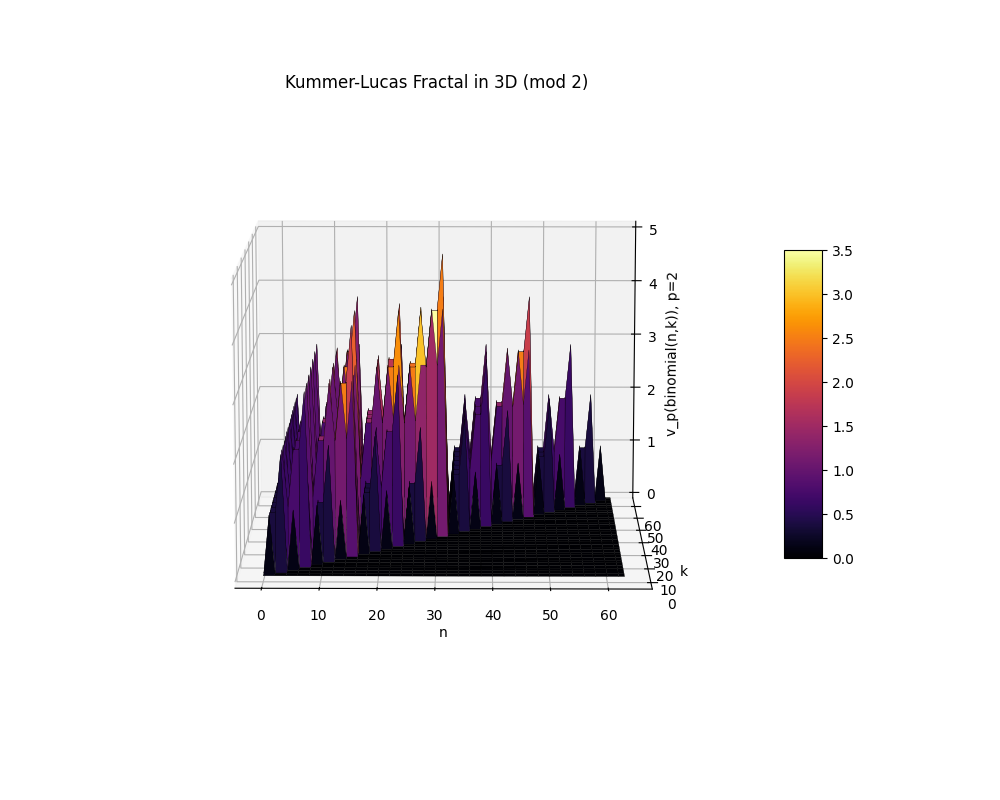
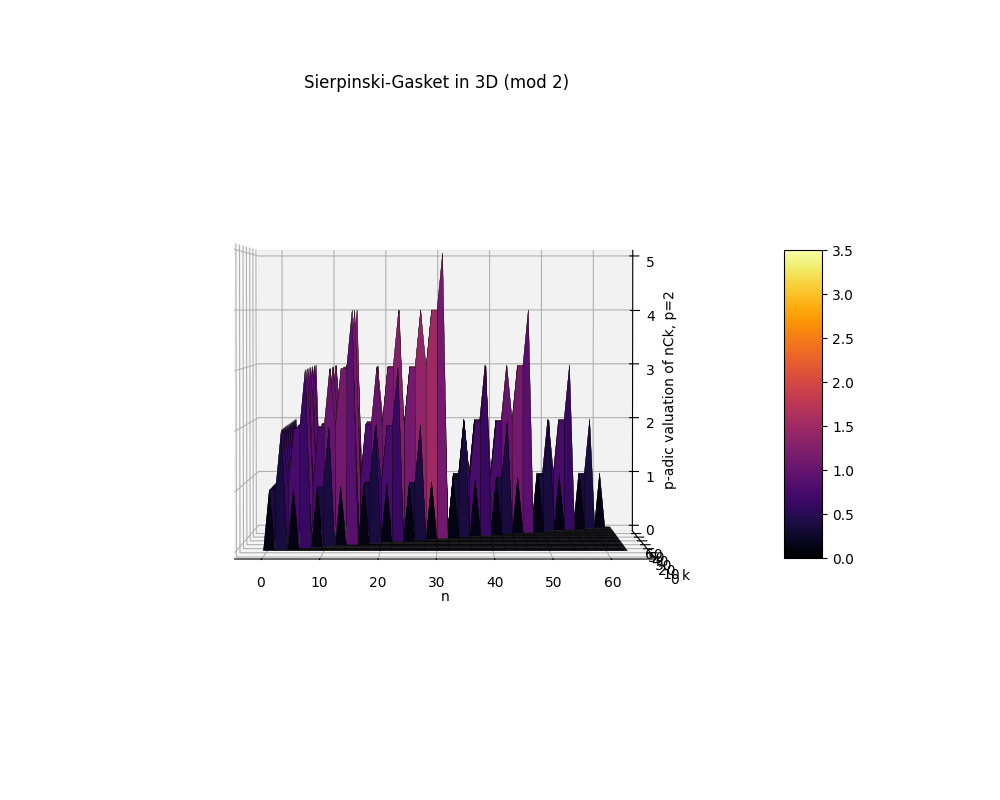
Removed redundant comments and Made minor corrections

Changed region(s): [[0.217, 0.2812, 0.682, 0.7812], [0.279, 0.0938, 0.589, 0.125]]

diff --git a/py-files/benchmark_3types.py b/py-files/benchmark_3types.py
@@ -2,9 +2,7 @@ import time
 import numpy as np
 import matplotlib.pyplot as plt
 
-# -------------------------
-# 方法1: 漸化式(mod2)
-# -------------------------
+# 漸化式による方法
 def pascal_mod2_triangle(rows):
     triangle = np.zeros((rows, rows), dtype=np.uint8)
     triangle[0, 0] = 1
@@ -15,9 +13,8 @@ def pascal_mod2_triangle(rows):
             triangle[n, k] = (triangle[n-1, k-1] ^ triangle[n-1, k])
     return triangle
 
-# -------------------------
-# 方法2: 桁ごとにLucas
-# -------------------------
+
+# 桁ごとにLucasの定理を適用する方法
 def binomial_odd_lucas(n: int, k: int) -> int:
     while n > 0 or k > 0:
         if (k & 1) > (n & 1):
@@ -33,9 +30,8 @@ def lucas_mod2_triangle(rows):
             triangle[n, k] = binomial_odd_lucas(n, k)
     return triangle
 
-# -------------------------
-# 方法3: 論理積を使う
-# -------------------------
+
+# 論理積を使う方法
 def binomial_odd_and(n: int, k: int) -> int:
     return (n & k) == k
 
@@ -46,18 +42,17 @@ def and_mod2_triangle(rows):
             triangle[n, k] = binomial_odd_and(n, k)
     return triangle
 
-# -------------------------
-# 両対数グラフ
-# -------------------------
+
+# グラフ
 def benchmark_and_plot_loglog(row_sizes):
     methods = [
         ("Pascal recurrence (mod 2)", pascal_mod2_triangle),
         ("Lucas digit comparison", lucas_mod2_triangle),
         ("Bitwise AND trick", and_mod2_triangle),
     ]
-#
+
     results = {name: [] for name, _ in methods}
-#
+
     for rows in row_sizes:
         print(f"Running benchmark for rows={rows}...")
         for name, func in methods:
@@ -65,19 +60,19 @@ def benchmark_and_plot_loglog(row_sizes):
             func(rows)
             end = time.perf_counter()
             results[name].append(end - start)
-#
+
     # プロット
     plt.figure(figsize=(9,6))
     for name in results:
         plt.plot(row_sizes, results[name], marker='o', label=name)
-#
+
     N = np.array(row_sizes, dtype=float)
     norm = results["Bitwise AND trick"][0] / (N[0]**2)
     plt.plot(N, norm * N**2, '--', label="Θ(N²) baseline")
-#
+
     norm2 = results["Lucas digit comparison"][0] / (N[0]**2 * np.log2(N[0]))
     plt.plot(N, norm2 * N**2 * np.log2(N), '--', label="Θ(N² log N) baseline")
-#
+
     plt.xscale("log")
     plt.yscale("log")
     plt.xlabel("Number of rows (N)")

diff --git a/py-files/kummer_modp.py b/py-files/kummer_modp.py
@@ -3,10 +3,6 @@ import numpy as np
 import matplotlib.pyplot as plt
 
 def binomial_p_adic_val(n, k, p):
-    """
-    Return the p-adic valuation v_p( C(n, k) ) using Kummer's theorem:
-    count the number of carries in base-p subtraction of k from n
-    """
     count = 0
     while n > 0 or k > 0:
         n_i = n % p
@@ -20,7 +16,7 @@ def binomial_p_adic_val(n, k, p):
 def generate_kummer_lucas_array(rows=128, p=3):
     arr = np.zeros((rows, rows), dtype=int)
     for n in range(rows):
-        for k in range(n + 1):  # Pascal triangle: k <= n
+        for k in range(n + 1):
             v = binomial_p_adic_val(n, k, p)
             arr[n, k] = v
     return arr

diff --git a/py-files/3d_kummer.py b/py-files/3d_kummer.py
@@ -29,8 +29,8 @@ def plot_kummer_lucas_3d(rows=64, p=2, cmap='plasma'):
 
     ax.set_xlabel("n")
     ax.set_ylabel("k")
-    ax.set_zlabel(f"v_p(binomial(n,k)), p={p}")
-    ax.set_title(f"Kummer-Lucas Fractal in 3D (mod {p})")
+    ax.set_zlabel(f"p-adic valuation of nCk, p={p}")
+    ax.set_title(f"Sierpinski-Gasket in 3D (mod {p})")
 
     fig.colorbar(surf, shrink=0.5, aspect=8)
     return fig

diff --git a/py-files/using_and.py b/py-files/using_and.py
@@ -22,7 +22,3 @@ def plot_sierpinski_lucas(rows):
 # 図を生成して表示
 fig = plot_sierpinski_lucas(256)
 plt.show()
-
-
-#print(is_binom_odd(5,2))
-#print(1&0,0&1,1&1,0&0,5&2)#110010/101&010論理積
